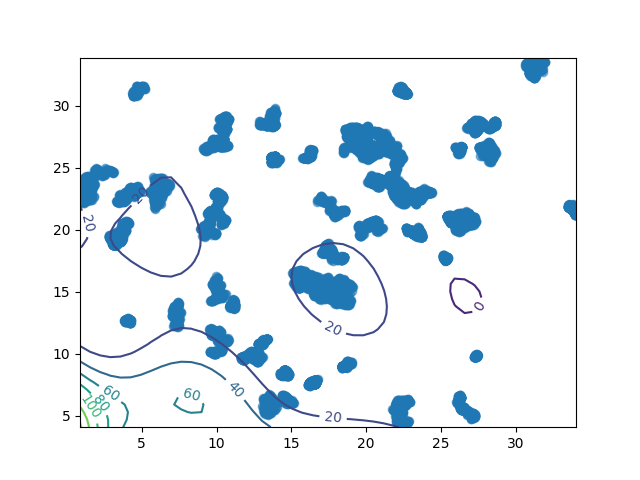
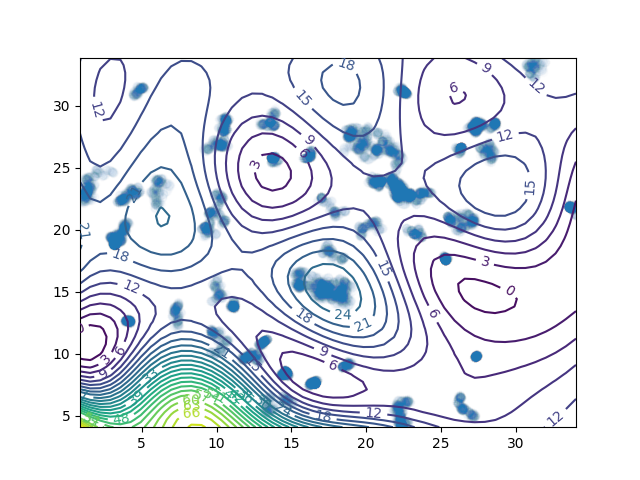
plots converging

diff --git a/gibbsSamplerForAgave/copySampler.py b/gibbsSamplerForAgave/copySampler.py
@@ -2,11 +2,11 @@ import numpy as np
 from types import SimpleNamespace
 from scipy import stats
 import matplotlib.pyplot as plt
-import syntheticData
 import functions
 import objects
 import os
 import time
+import h5py
 
 
 #read datafile
@@ -38,7 +38,7 @@ dVect.append(variables.dIndu)
 pVect = []
 
 startTime = time.time()
-for i in range(10000):
+for i in range(50000):
     variables = functions.diffusionSampler(variables, data)
     dVect.append(variables.dIndu)
     pVect.append(variables.P)
@@ -51,3 +51,4 @@ plot1.savefig('C:/Users/User/Documents/GitHub/GPcurve/gibbsSamplerForAgave/figur
 plot2.savefig('C:/Users/User/Documents/GitHub/GPcurve/gibbsSamplerForAgave/figures/prob.png')
 
 print(endTime-startTime)
+print(pVect.index(max(pVect)))

diff --git a/gibbsSamplerForAgave/functions.py b/gibbsSamplerForAgave/functions.py
@@ -1,3 +1,4 @@
+from cProfile import label
 from statistics import mode
 import numpy as np
 from types import SimpleNamespace
@@ -183,10 +184,10 @@ def plots(variables, dVect, pVect, data):
 
     fig = plt.figure()
 
-    mapPlot = plt.contour(shapedX, shapedY, shapedMap)
+    mapPlot = plt.contour(shapedX, shapedY, shapedMap, levels = 25)
     
     plt.clabel(mapPlot, inline=1, fontsize=10)
-    plt.scatter(trajectories[:,0], trajectories[:,1], alpha = 0.5)
+    plt.scatter(trajectories[:,0], trajectories[:,1], alpha = 0.01)
 
     return fig
 
